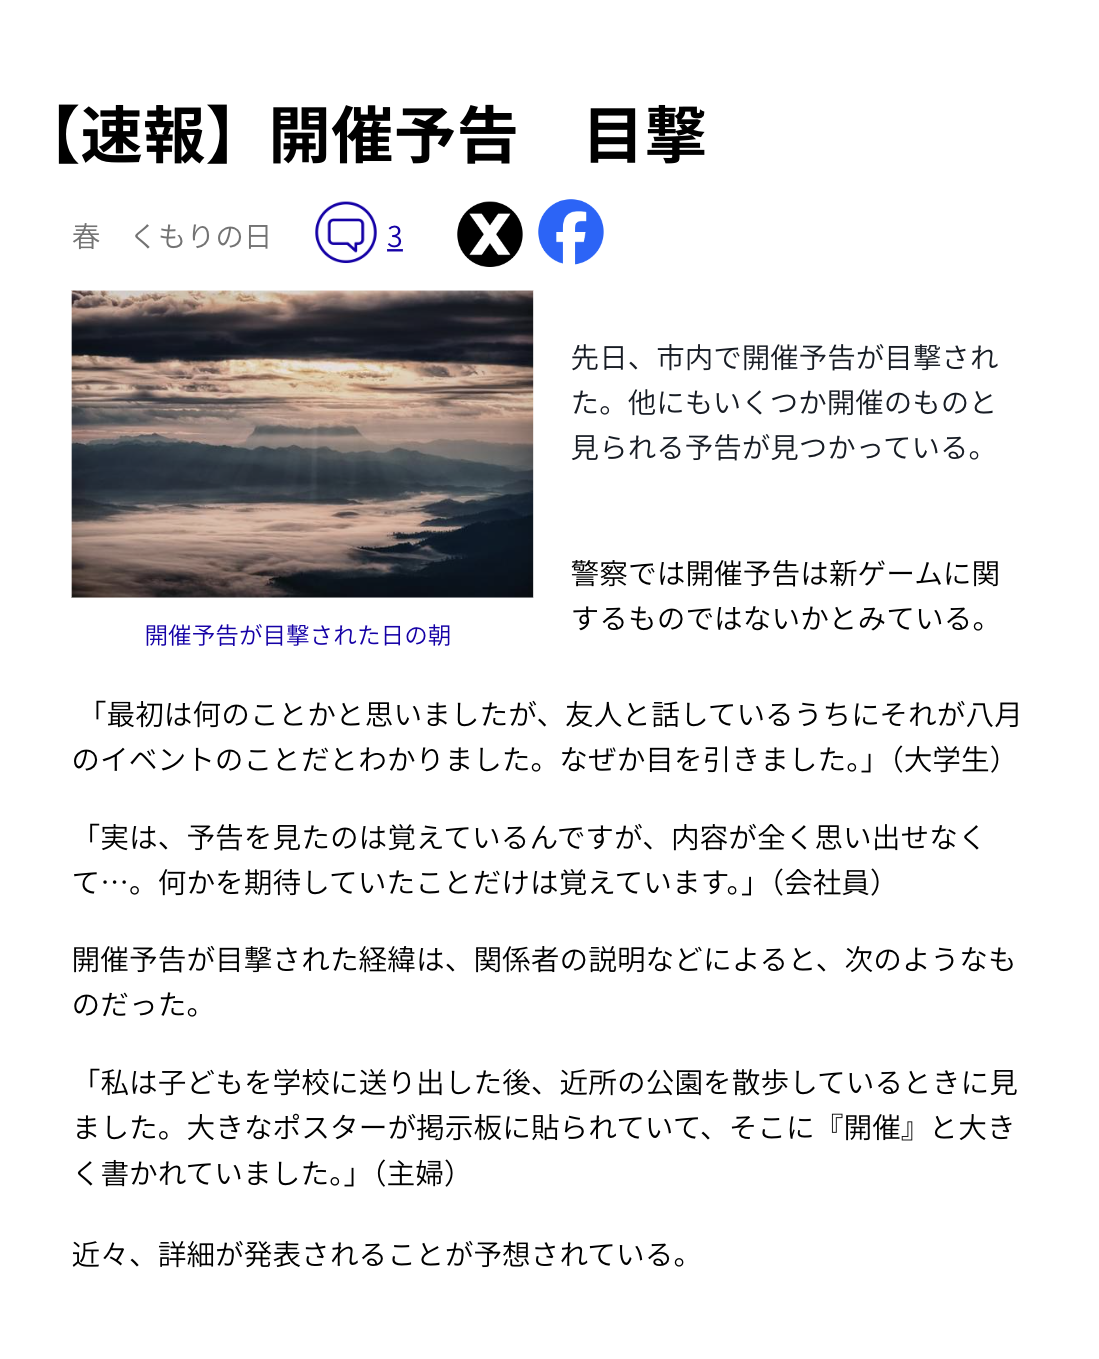
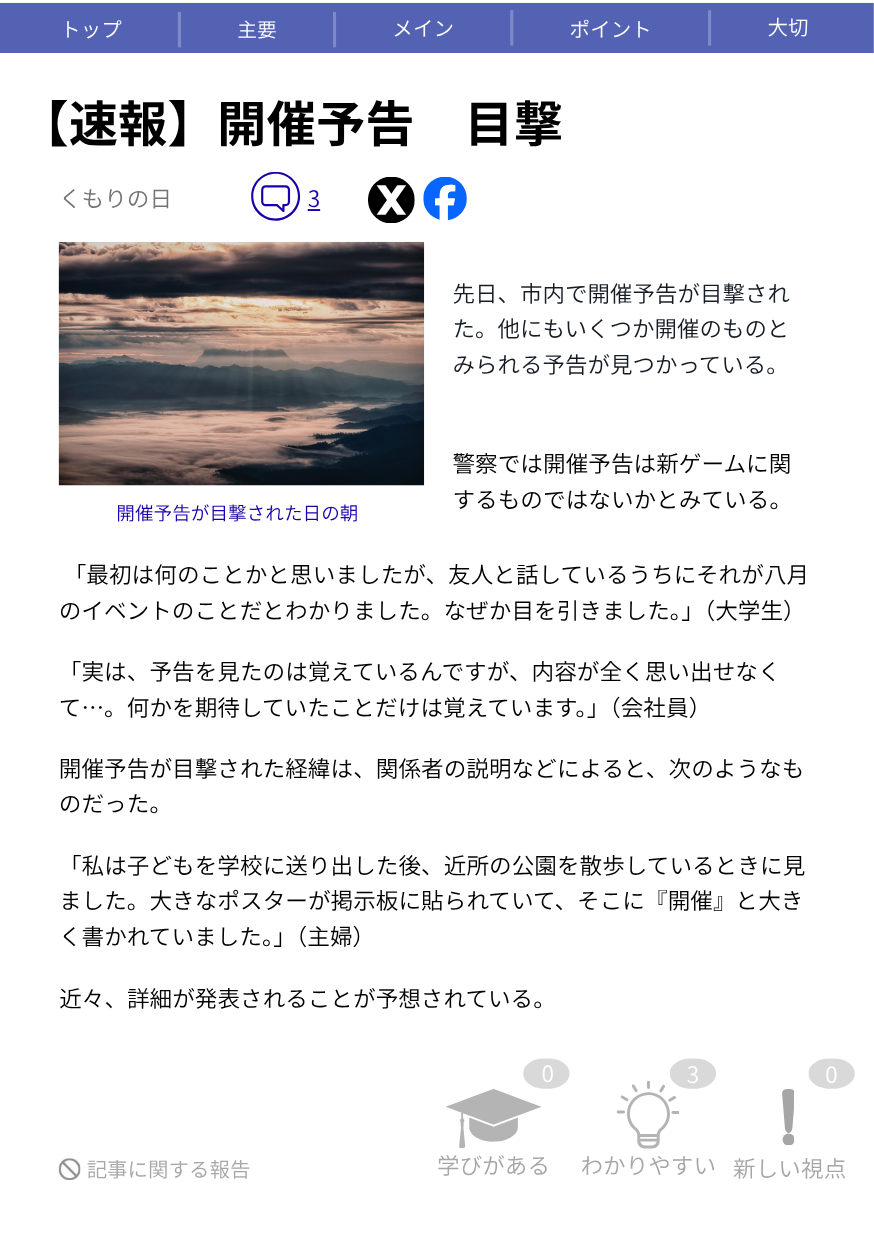
エクスプローラー型開催予告ver.3を公開

Changed region(s): [[0.0, 0.0, 1.0, 0.95], [0.8341, 0.9194, 0.865, 0.95]]

diff --git a/ゲーム開催ブログ/explorer.html b/ゲーム開催ブログ/explorer.html
@@ -57,8 +57,8 @@
 
           <div id="file-view" class="pane-view">
             <div class="file-grid">
-              <button id="open-festival-file" class="file-tile image-file" type="button" data-preview="./アイコン_2大開催祭チラシ.jpg" aria-label="大開催祭チラシ">
-                <img class="file-photo poster-thumb" src="./アイコン_2大開催祭チラシ.jpg" alt="" />
+              <button id="open-festival-file" class="file-tile image-file" type="button" data-preview="./アイコン_2大開催祭チラシ.png" aria-label="大開催祭チラシ">
+                <img class="file-photo poster-thumb" src="./アイコン_2大開催祭チラシ.png" alt="" />
                 <span class="file-label">文書1</span>
               </button>
 
@@ -67,21 +67,17 @@
                 <span class="file-label">文書2</span>
               </button>
 
-              <button class="file-tile image-file" type="button" data-kind="placeholder" aria-label="文書">
-                <img class="file-photo doc-thumb" src="./アイコン3_文書アイコン.png" alt="" />
+              <button id="open-scp-file" class="file-tile image-file" type="button" data-preview="./アイコン3_SCP.png" aria-label="SCP文書">
+                <img class="file-photo doc-thumb" src="./アイコン3_SCP.png" alt="" />
                 <span class="file-label">文書3</span>
               </button>
 
-              <button class="file-tile image-file" type="button" data-kind="placeholder" aria-label="文書">
-                <img class="file-photo doc-thumb" src="./アイコン3_文書アイコン.png" alt="" />
-                <span class="file-label">文書4</span>
-              </button>
             </div>
           </div>
 
           <div id="preview-view" class="pane-view preview-pane">
             <div class="preview-wrap">
-              <img id="preview-image" class="preview-image" src="./アイコン_2大開催祭チラシ.jpg" alt="開催予告画像" />
+              <img id="preview-image" class="preview-image" src="./アイコン_2大開催祭チラシ.png" alt="開催予告画像" />
             </div>
           </div>
         </section>

diff --git a/ゲーム開催ブログ/explorer.js b/ゲーム開催ブログ/explorer.js
@@ -3,6 +3,7 @@ const forwardButton = document.getElementById("forward-button");
 const openFolderButton = document.getElementById("open-folder");
 const openFestivalFileButton = document.getElementById("open-festival-file");
 const openWitnessFileButton = document.getElementById("open-witness-file");
+const openScpFileButton = document.getElementById("open-scp-file");
 const sidebarFolderButton = document.getElementById("sidebar-folder");
 const folderView = document.getElementById("folder-view");
 const fileView = document.getElementById("file-view");
@@ -11,12 +12,16 @@ const previewImage = document.getElementById("preview-image");
 
 const previewMap = {
   festival: {
-    src: "./アイコン_2大開催祭チラシ.jpg",
+    src: "./アイコン_2大開催祭チラシ.png",
     alt: "大開催祭チラシ",
   },
   witness: {
     src: "./アイコン1_開催予告目撃.png",
     alt: "開催予告目撃",
+  },
+  scp: {
+    src: "./アイコン3_SCP.png",
+    alt: "SCP文書",
   },
 };
 
@@ -70,6 +75,7 @@ function goForward() {
 openFolderButton.addEventListener("click", () => navigateTo({ type: "files" }));
 openFestivalFileButton.addEventListener("click", () => navigateTo({ type: "preview", previewKey: "festival" }));
 openWitnessFileButton.addEventListener("click", () => navigateTo({ type: "preview", previewKey: "witness" }));
+openScpFileButton.addEventListener("click", () => navigateTo({ type: "preview", previewKey: "scp" }));
 sidebarFolderButton.addEventListener("click", () => navigateTo({ type: "folder" }));
 backButton.addEventListener("click", goBack);
 forwardButton.addEventListener("click", goForward);
